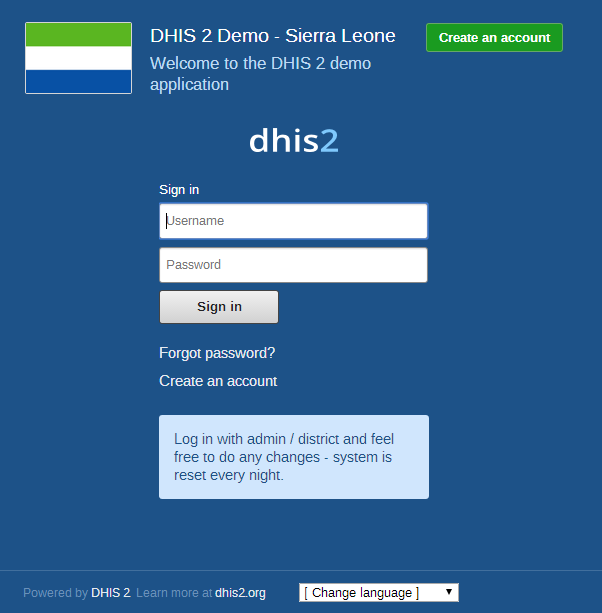
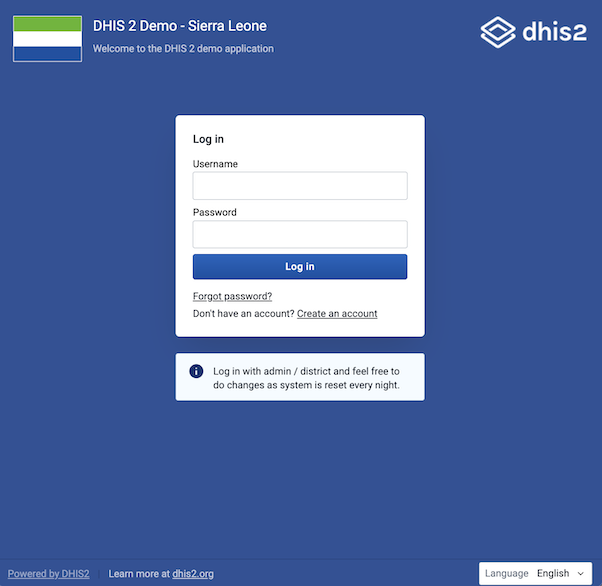
feat: add documentation for new login app [DHIS2-17074] (#1353)

diff --git a/src/user/system-settings.md b/src/user/system-settings.md
@@ -87,8 +87,8 @@ Table: Appearance settings
 | **Application title** | Sets the application title on the top menu. |
 | **Application introduction** | Sets an introduction of the system which will be visible on the top-left part of the login page. |
 | **Application notification** | Sets a notification which will be visible on the front page under the login area. |
-| **Application left-side footer** | Sets a text in the left-side footer area of the login page. |
-| **Application right-side footer** | Sets a text in the right-side footer area of the login page. |
+| **Application left-side footer** | Sets a text in the left-side footer area of the login page. (When using a language written in a right-to-left script, such as Arabic, this will be in the right-footer area of the login page.) |
+| **Application right-side footer** | Sets a text in the right-side footer area of the login page. ((When using a language written in a right-to-left script, such as Arabic, this will be in the left-footer area of the login page.) |
 | **Style** | Sets the style (look-and-feel) of the system.<br> <br>The user can override this setting in the **Settings** app: **User settings** \> **Style**.<br>      <br>    **Note**<br>     <br>    Due to technical reasons, it's not possible to change the color of the newest version of the header bar. The apps with the newest header bar will retain the blue header bar. |
 | **Start page** | Sets the page or app which the user will be redirected to after log in.<br> <br>Recommended setting: the **Dashboard** app. |
 | **Enable light-weight start page** | Instructs apps to render a light-weight and fast landing page. Recommended in low-bandwidth environments. |
@@ -98,7 +98,8 @@ Table: Appearance settings
 | **Database language** | Sets the language used in the database.<br> <br>The user can override this setting in the **Settings** app: **User settings** \> **Database language**. |
 | **Require authority to add to view object lists** | If you select this option, you'll hide menu and index page items and links to lists of objects if the current user doesn't have the authority to create the type of objects (privately or publicly). |
 | **Custom login page logo** | Select this option and upload an image to add your logo to the login page. |
-| **Custom top menu logo** | Select this option and upload an image to add your logo to the left in the top menu. |
+| **Login page theme** | This lets you select between the default layout, the sidebar layout, or a custom layout for the login app. If you select a custom layout, you need to provide a custom template in the "Login page template" section. |
+| **Login page template** | Here you can paste the HTML to define the layout  and style of the login page. More details for how to define the template are available in the developer documentation. |
 
 ## Email settings { #system_email_settings } 
 

diff --git a/src/developer/web-api/settings-and-configuration.md b/src/developer/web-api/settings-and-configuration.md
@@ -527,6 +527,43 @@ DHIS2 web application. This can be particularly useful in certain situations:
   - Including CSS styles which are used in custom data entry forms and
     HTML-based reports.
 
+## Login App customisation { #login_app_customisation }
+
+The Settings App allows users to define a variety of elements (text, logo, flag) that can be used to customise the login page of DHIS2. Additionally, it is possible to choose between two preconfigured layouts (the default and a sidebar layout).
+
+If needed, the login app's styling and layout can be further customised by uploading an HTML template (also definable in the settings app). This HTML template replaces certain elements (based on ID); the reserved IDs are listed in the table below. In this way, it is possible to combine custom styling (using css) and custom layout (using HTML) to change the look of the login app. The custom template does not support custom scripts, and script tags will be removed from any uploaded template.
+
+To create a custom template, it is recommended to start with one of the existing templates (these are available for download from within the login app at the extension dhis-web-login/#download).
+
+ID | Replaced by |
+|---|---|
+| **login-box** | The main login dialog, which prompts the user to enter their username/password. **This must be included for the login app to work as intended.**  |
+| **application-title** | Text for the application title.  |
+| **application-introduction** | Text for the application introduction. |
+| **flag** | The selected flag. |
+| **logo** | The logo (DHIS2 logo is used if custom logo is not defined). |
+| **powered-by** | A link to DHIS2.org. |
+| **application-left-footer** | Text for the left-side footer. |
+| **application-right-footer** | Text for the right-side footer. |
+| **language-select** | Selection to control the language of the login app. |
+
+The appearance of the login dialog can also be modified by defining css variables within the HTML template. The following css variables are available for customisation:
+```
+--form-container-margin-block-start
+--form-container-margin-block-end
+--form-container-margin-inline-start, auto
+--form-container-margin-inline-end
+--form-container-default-width
+--form-container-padding
+--form-container-background-color
+--form-container-box-border-radius
+--form-container-box-shadow
+--form-container-font-color
+--form-title-font-size
+--form-title-font-weight
+--form-container-title-color
+```
+
 ### Javascript { #webapi_customization_javascript } 
 
 To insert Javascript from a file called *script.js* you can interact
